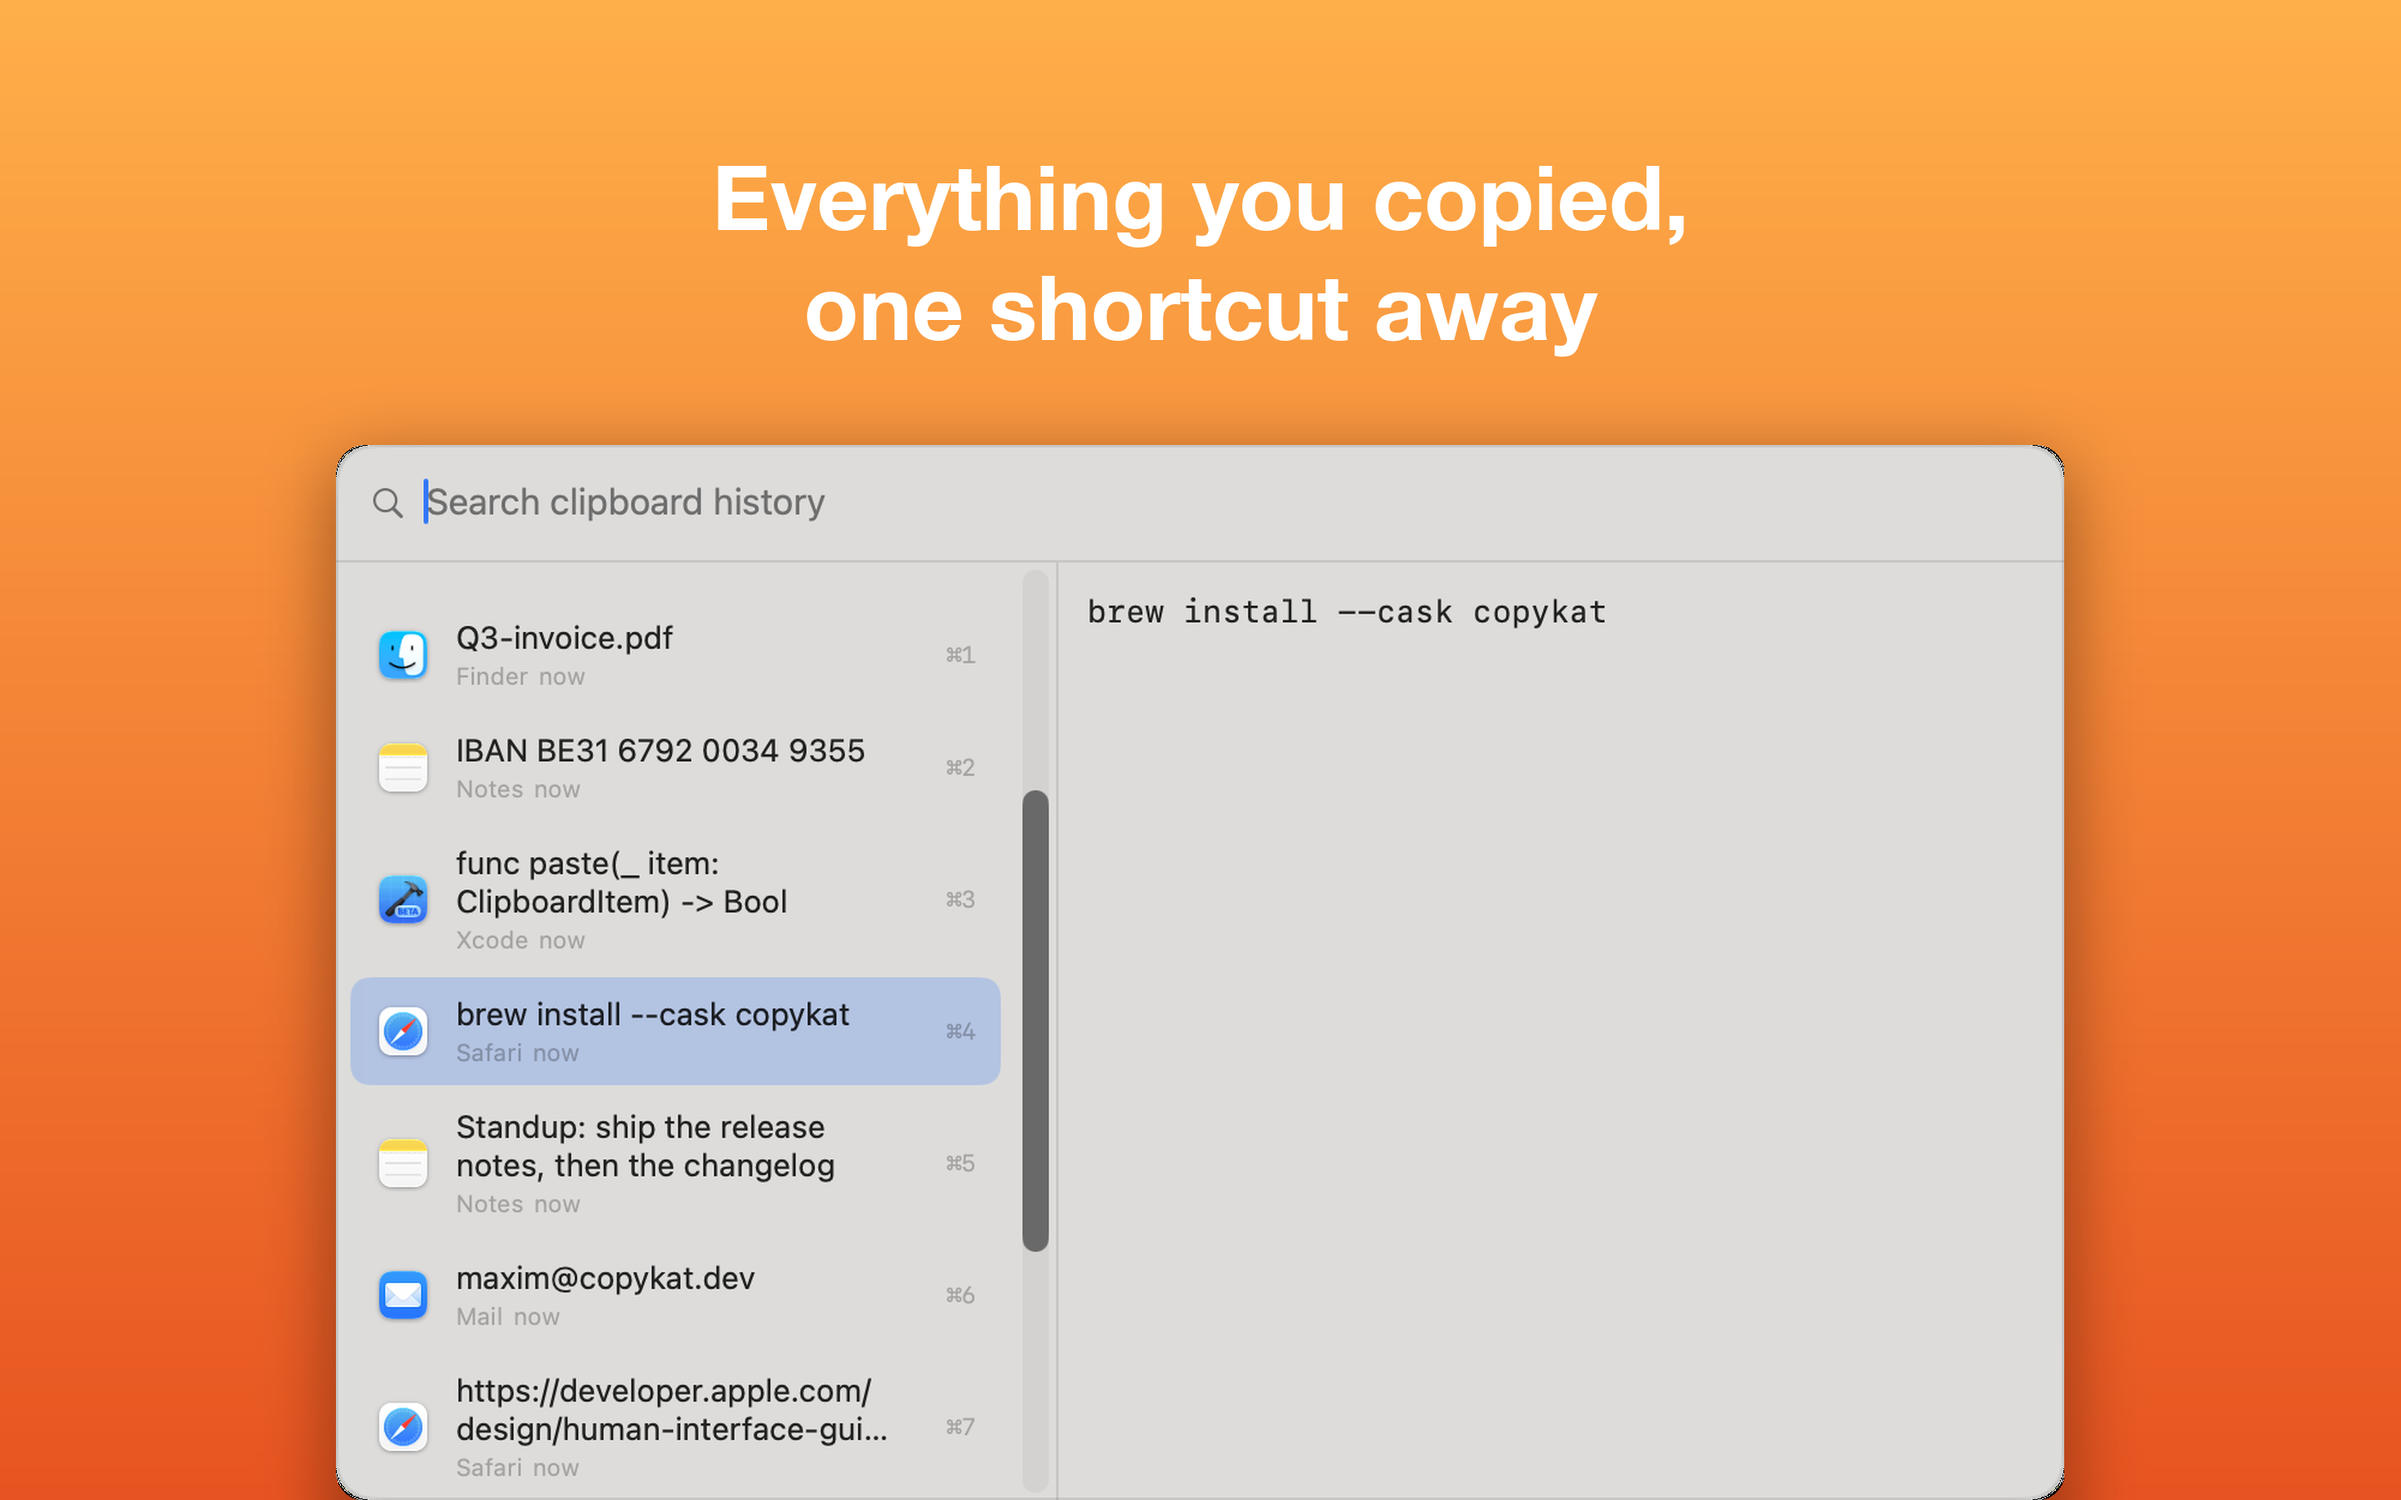
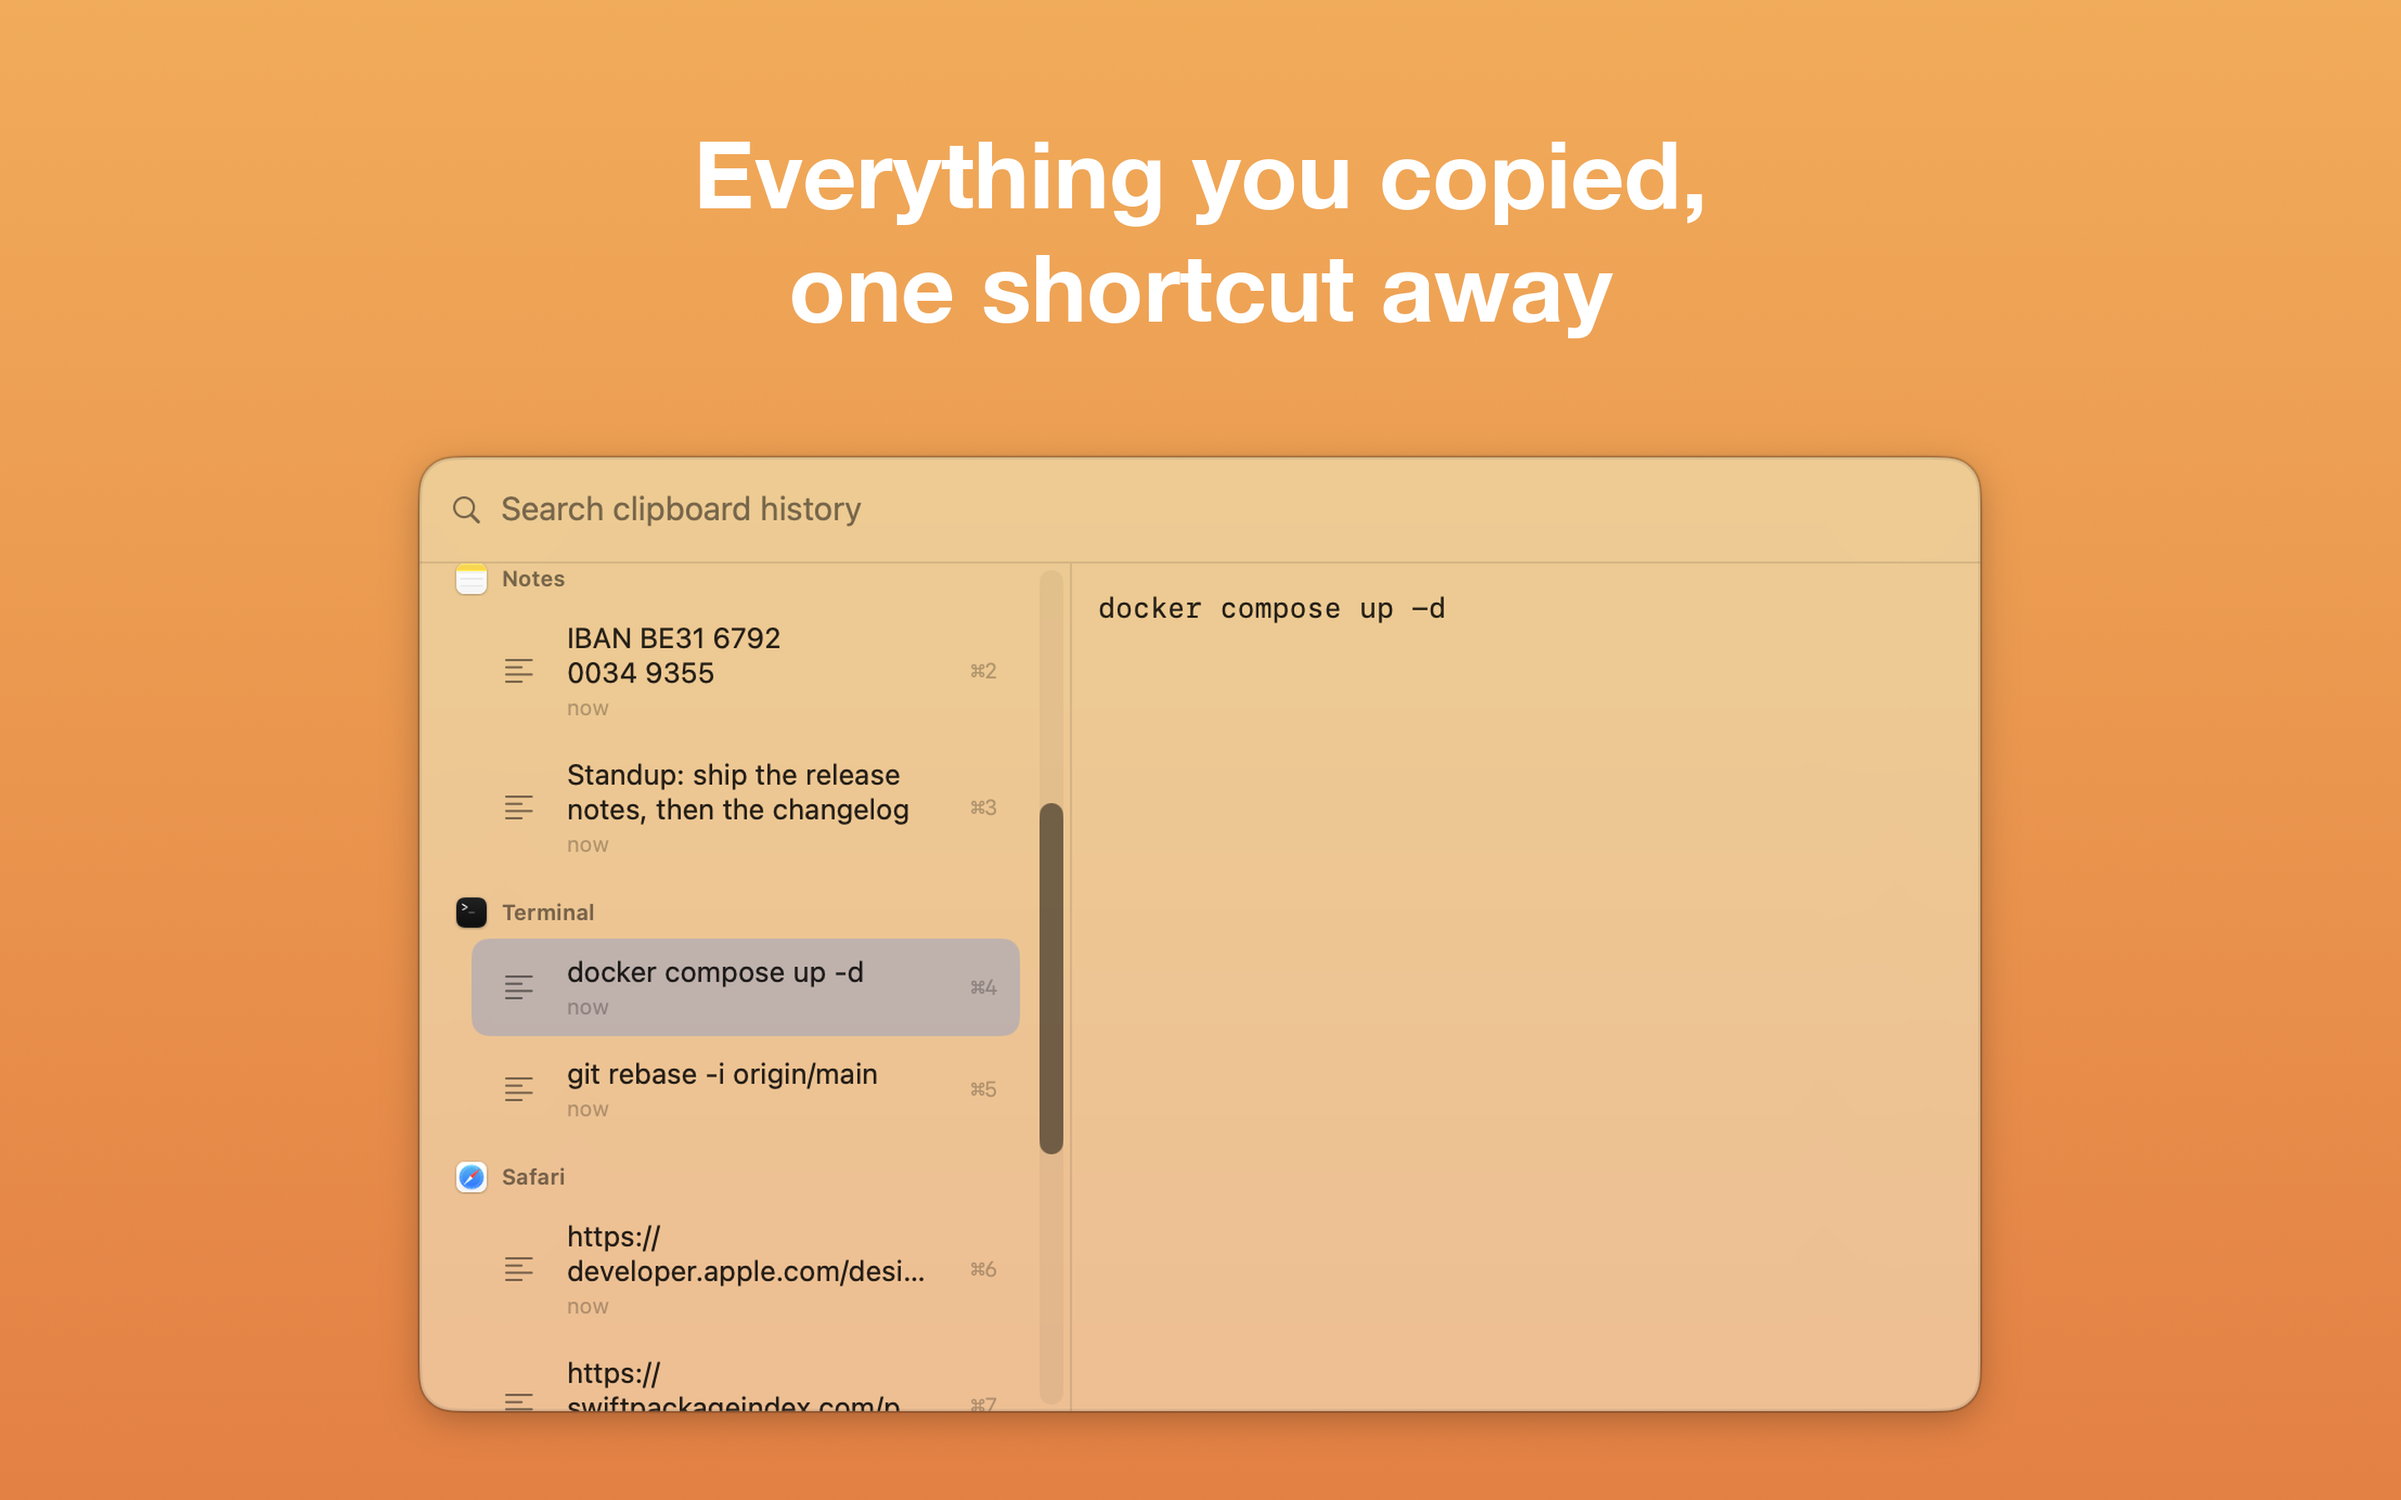
Switch fuzzy search to FuzzyMatch and refresh the store screenshots

diff --git a/CopyKat/App/AppState.swift b/CopyKat/App/AppState.swift
@@ -20,6 +20,7 @@ final class AppState {
     private var monitor: ClipboardMonitor?
     private var pinShortcutManager: PinShortcutManager?
     let onboardingController = OnboardingController()
+    private let demoBackdrop = DemoBackdrop()
     let settingsWindowController = SettingsWindowController()
     // The App Store build updates through the App Store, so it ships no updater.
     #if !MAS
@@ -139,15 +140,24 @@ final class AppState {
 
             if Self.isDemo {
                 seedDemoHistory()
+                demoBackdrop.show()
                 let scene = ProcessInfo.processInfo.environment["COPYKAT_DEMO"] ?? "panel"
                 DispatchQueue.main.asyncAfter(deadline: .now() + 1.0) { [weak self] in
                     guard let self else { return }
                     switch scene {
                     case "settings":
                         self.settingsWindowController.show(appState: self)
+                        if let window = NSApp.windows.first(where: { $0.title.contains("CopyKat") }),
+                           let screen = NSScreen.main {
+                            let frame = window.frame
+                            window.setFrameOrigin(NSPoint(
+                                x: screen.frame.midX - frame.width / 2,
+                                y: screen.frame.midY - frame.height / 2 - 30
+                            ))
+                        }
                     case "search":
                         self.panelController?.show()
-                        self.panelViewModel.query = "noets"
+                        self.panelViewModel.query = ProcessInfo.processInfo.environment["COPYKAT_DEMO_QUERY"] ?? "interfce"
                     default:
                         self.panelController?.show()
                         self.panelViewModel.moveSelection(3)
@@ -161,12 +171,15 @@ final class AppState {
     }
 
     private func seedDemoHistory() {
+        // Oldest first: consecutive items from one app end up grouped under a
+        // single header in the panel, which is what the screenshots should show.
         let demo: [(String, String, String)] = [
-            ("com.apple.Safari", "Safari", "https://developer.apple.com/design/human-interface-guidelines"),
             ("com.apple.mail", "Mail", "maxim@copykat.dev"),
+            ("com.apple.Safari", "Safari", "https://swiftpackageindex.com/pointfreeco/swift-snapshot-testing"),
+            ("com.apple.Safari", "Safari", "https://developer.apple.com/design/human-interface-guidelines"),
+            ("com.apple.Terminal", "Terminal", "git rebase -i origin/main"),
+            ("com.apple.Terminal", "Terminal", "docker compose up -d"),
             ("com.apple.Notes", "Notes", "Standup: ship the release notes, then the changelog"),
-            ("com.apple.Safari", "Safari", "brew install --cask copykat"),
-            ("com.apple.dt.Xcode", "Xcode", "func paste(_ item: ClipboardItem) -> Bool"),
             ("com.apple.Notes", "Notes", "IBAN BE31 6792 0034 9355"),
             ("com.apple.finder", "Finder", "Q3-invoice.pdf"),
         ]

diff --git a/CopyKat/Onboarding/DemoBackdrop.swift b/CopyKat/Onboarding/DemoBackdrop.swift
@@ -1,0 +1,37 @@
+import AppKit
+import SwiftUI
+
+// Screenshot mode only: a full screen sheet of the brand gradient behind the
+// panel, so App Store captures show the real glass blurring a real backdrop
+// instead of a cut-out window pasted onto a colour.
+@MainActor
+final class DemoBackdrop {
+    private var window: NSWindow?
+
+    func show() {
+        guard let screen = NSScreen.main else { return }
+        let window = NSWindow(
+            contentRect: screen.frame,
+            styleMask: [.borderless],
+            backing: .buffered,
+            defer: false
+        )
+        window.level = .normal
+        window.isOpaque = true
+        window.contentView = NSHostingView(rootView: DemoBackdropView())
+        window.setFrame(screen.frame, display: true)
+        window.orderFrontRegardless()
+        self.window = window
+    }
+}
+
+private struct DemoBackdropView: View {
+    var body: some View {
+        LinearGradient(
+            colors: [Color(red: 1.0, green: 0.69, blue: 0.29), Color(red: 0.91, green: 0.33, blue: 0.13)],
+            startPoint: .top,
+            endPoint: .bottom
+        )
+        .ignoresSafeArea()
+    }
+}

diff --git a/CopyKat/Store/HistoryStore.swift b/CopyKat/Store/HistoryStore.swift
@@ -73,14 +73,15 @@ final class HistoryStore {
         if query.isEmpty {
             filtered = all
         } else {
-            // Fuzzy match on content and source app; best (lowest) score first,
-            // recency breaks ties.
+            // Fuzzy match on content and source app; best score first, and
+            // recency breaks ties because `all` is already newest first.
             let scored = all.compactMap { item -> (ClipboardItem, Double)? in
                 let haystacks = [item.text, item.sourceAppName].compactMap { $0 }
-                let best = haystacks.compactMap { matcher.score(query, in: $0) }.min()
-                return best.map { (item, $0) }
+                let best = haystacks.compactMap { matcher.score(query, in: $0) }.max()
+                guard let best, best > 0 else { return nil }
+                return (item, best)
             }
-            filtered = scored.sorted { $0.1 < $1.1 }.map(\.0)
+            filtered = scored.sorted { $0.1 > $1.1 }.map(\.0)
         }
         return filtered.filter(\.isPinned) + filtered.filter { !$0.isPinned }
     }

diff --git a/CopyKat/Store/FuzzyMatcher.swift b/CopyKat/Store/FuzzyMatcher.swift
@@ -1,13 +1,20 @@
 import Foundation
-import Fuse
+import FuzzyMatch
 
-// Thin wrapper around Fuse (the Fuse.js algorithm) so the rest of the app
-// never touches the library directly. Lower scores are better matches; nil
-// means no match within the threshold.
+// Damerau-Levenshtein matching, so a query still finds an item when a letter is
+// swapped or missing. Scores run from 0 (no match) upwards; higher is better.
 struct FuzzyMatcher {
-    private let fuse = Fuse(threshold: 0.4)
+    private let matcher = FuzzyMatch.FuzzyMatcher()
 
     func score(_ query: String, in text: String) -> Double? {
-        fuse.search(query, in: text)?.score
+        let needle = Self.normalize(query)
+        guard !needle.isEmpty else { return nil }
+        return matcher.score(Self.normalize(text), against: needle)?.score
+    }
+
+    private static func normalize(_ string: String) -> String {
+        string
+            .folding(options: [.diacriticInsensitive, .caseInsensitive], locale: .current)
+            .trimmingCharacters(in: .whitespacesAndNewlines)
     }
 }
